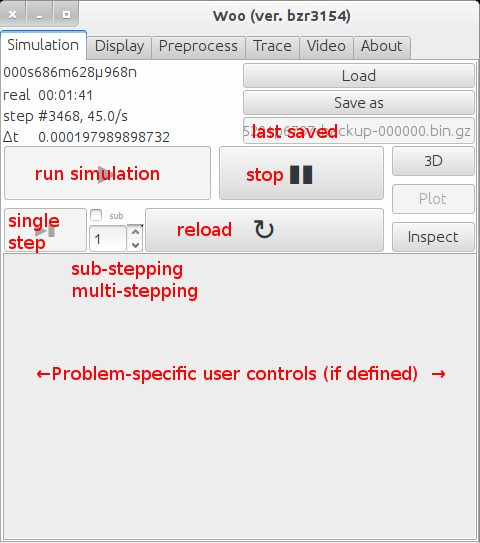
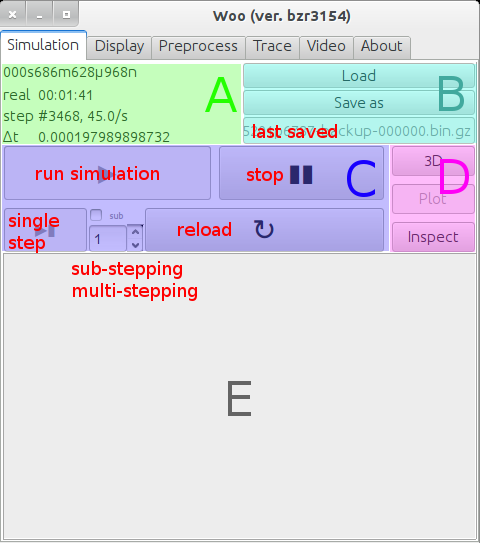
User docs

diff --git a/py/tests/core.py b/py/tests/core.py
@@ -303,7 +303,7 @@ class TestArrayAccu(unittest.TestCase):
 
 class TestPyDerived(unittest.TestCase):
 	import woo.pyderived, woo.core
-	class TestPyClass(woo.core.Object,woo.pyderived.PyWooObject):
+	class _TestPyClass(woo.core.Object,woo.pyderived.PyWooObject):
 		'Sample pure-python class integrated into woo (mainly used with preprocessors)'
 		PAT=woo.pyderived.PyAttrTrait
 		_attrTraits=[
@@ -319,7 +319,7 @@ class TestPyDerived(unittest.TestCase):
 			woo.core.Object.__init__(self)
 			self.wooPyInit(self.__class__,woo.core.Object,**kw)
 	def setUp(self):
-		self.t=self.TestPyClass()
+		self.t=self._TestPyClass()
 	def testTraits(self):
 		'PyDerived: PyAttrTraits'
 		self.assert_(self.t._attrTraits[0].ini==1.)
@@ -332,7 +332,7 @@ class TestPyDerived(unittest.TestCase):
 	def testAttrTypesDefault(self):
 		'PyDerived: checkAttrTypes - default'
 		try: self.t.checkAttrTypes()
-		except: self.fail("exception raised with default-initialized TestPyClass")
+		except: self.fail("exception raised with default-initialized _TestPyClass")
 	def testAttrFloat(self):
 		'PyDerived: checkAttrTypes - float'
 		self.t.aF='asd'

diff --git a/doc/sphinx2/source/conf.py b/doc/sphinx2/source/conf.py
@@ -38,8 +38,8 @@ extensions = ['sphinx.ext.autodoc', 'sphinx.ext.doctest', 'sphinx.ext.mathjax', 
 # customize promps
 ipython_rgxin =re.compile('Woo \[(\d+)\]:\s?(.*)\s*')
 ipython_rgxout=re.compile(' -> \[(\d+)\]:\s?(.*)\s*')
-ipython_promptin ='Woo [%d:]'
-ipython_promptout=' -> [%d:]'
+ipython_promptin ='Woo [%d]:'
+ipython_promptout=' -> [%d]:'
 
 todo_include_todos=True
 

diff --git a/doc/sphinx2/source/user/running.rst b/doc/sphinx2/source/user/running.rst
@@ -19,7 +19,7 @@ Options important for everyday use are the following ones:
 ``-j THREADS``
     Number of CPU cores to use for computation. Woo is parallelized using `OpenMP <http://www.openmp.org>`_, and by default runs on one core. Depending on hardware and the nature of simulation, reasonable value is usually around `-j4`. Woo must have been compiled with the ``openmp`` feature for this option to have effect.
 ``-e``
-	Evaluate given expression (should yield a :obj:`Scene <woo.core.Scene>` or a :ref:`Preprocessor <woo.core.Preprocessor>`)
+	Evaluate given expression (should yield a :obj:`Scene <woo.core.Scene>` or a :obj:`Preprocessor <woo.core.Preprocessor>`)
 ``-n``
     Run without graphical interface.
 ``-x``
@@ -37,28 +37,52 @@ Woo takes an additional argument (existing file) coming after options. It can be
 #. Saved simulation (in any :ref:`supported format <serializationFormats>`), which will be loaded and run by Woo.
 #. Preprocessor, which will be run to create a new simulation, which will be run by Woo.
 
-Once Woo starts, it shows an embedded command-prompt.
+Once Woo starts, it shows an embedded command-prompt based on `IPython <http://www.ipython.org>`_. It can be used as general-purpose python console and to inspect and modify simulations.
 
 .. ipython::
 
-    Woo [1]:
+    Woo [1]: 1+1
+
+	 Woo [1]: woo.master.scene.dt
+
 
 To get started with scripting Woo, you should get familiar with Python, for instance using `Python tutorial <http://docs.python.org/2/tutorial/>`_.
 
 
-Direct import
-==============
+Import as python module
+========================
 
 Woo can be used in python scripts. You only have to say ``import woo`` and everything should just work. Parameters which cannot be changed once ``woo`` is imported can be set via the ``wooOptions`` module:
 
 .. code-block:: python
 
     import wooOptions
-	 wooOptions.ompThreads=4
-	 wooOptions.debug=True
-	 import woo    # initializes OpenMP to 4 threads, and uses the debug build of woo
+    wooOptions.ompThreads=4
+    wooOptions.debug=True
+    import woo    # initializes OpenMP to 4 threads, and uses the debug build of woo
 
 Graphical interface
 ===================
 
+Graphical interface is entirely optional in Woo, simulations can run without it (with the `-n` switch, when no `$DISPLAY` is available, in batch, or if compiled without the ``qt4`` feature).
+
+Controller
+----------
+The main Woo window, called :obj:`controller <woo.qt.ControllerClass>`, is brought up automatically at startup if a simulation/script is given on the command-line (under Windows, the controller is always shown at startup). The controller can be manually brought up by pressing ``F12`` in the terminal, or by typing ``woo.qt.Controller()``. The window looks like this:
+
 .. image:: fig/controller-simulation.*
+
+It is divided in several blocks --
+
+A. Time display (simulation time, clock time, step number, timestep)
+B. Loading/saving simulation, file where the simulation was last saved
+C. Running controls:
+	* start/stop
+	* advance by one timestep (or multiple steps, or substep)
+	* reload from last saved file
+D. Display controls (toggle)
+	* 3d (OpenGL) window
+	* 2d plot window
+	* Inspector
+E. Area for simulation-specific controls, if defined (:obj:`woo.core.Scene.uiBuild`)
+

diff --git a/doc/sphinx2/source/user/installation.rst b/doc/sphinx2/source/user/installation.rst
@@ -61,8 +61,8 @@ Running woo under Windows is supported, but with some limitations:
 
 Binaries can be downloaded from `Launchpad download page <https://launchpad.net/woo/+download>`_, as follows:
 
-#. Download and run ``WooDEM-libs-*.installer.exe`` with the highest version number.
-#. Download and run ``WooDEM-main-*.installer.exe``. It must be installed into the same directory as libs (this is checked at install-time)
+#. Download and run ``Woo-libs-*.installer.exe`` with the highest version number.
+#. Download and run ``Woo-main-*.installer.exe``. It must be installed into the same directory as libs (this is checked at install-time)
 #. Download and run installers for any custom modules you may have.
 
 The installer installs the code system-wide, supports unattended installation via the `/S` switch, and the uninstaller should remove all files. There are some glitches, but we're working on improving that. Install path of Woo is added to the ``PATH`` environment variable, so the command ``wwoo`` is understood wherever you are in the filesystem.

diff --git a/doc/sphinx2/source/index.rst b/doc/sphinx2/source/index.rst
@@ -1,4 +1,4 @@
-.. Woo documentation master file, created by
+. Woo documentation master file, created by
    sphinx-quickstart on Sat Jun 16 15:52:22 2012.
    You can adapt this file completely to your liking, but it should at least
    contain the root `toctree` directive.

diff --git a/doc/sphinx2/source/user/user.rst b/doc/sphinx2/source/user/user.rst
@@ -3,11 +3,9 @@ User's manual
 ###################
 
 .. toctree::
+	:maxdepth: 2
 	
 	installation.rst
-
 	running.rst
-
 	batch.rst
-	
 	yade-diff.rst
